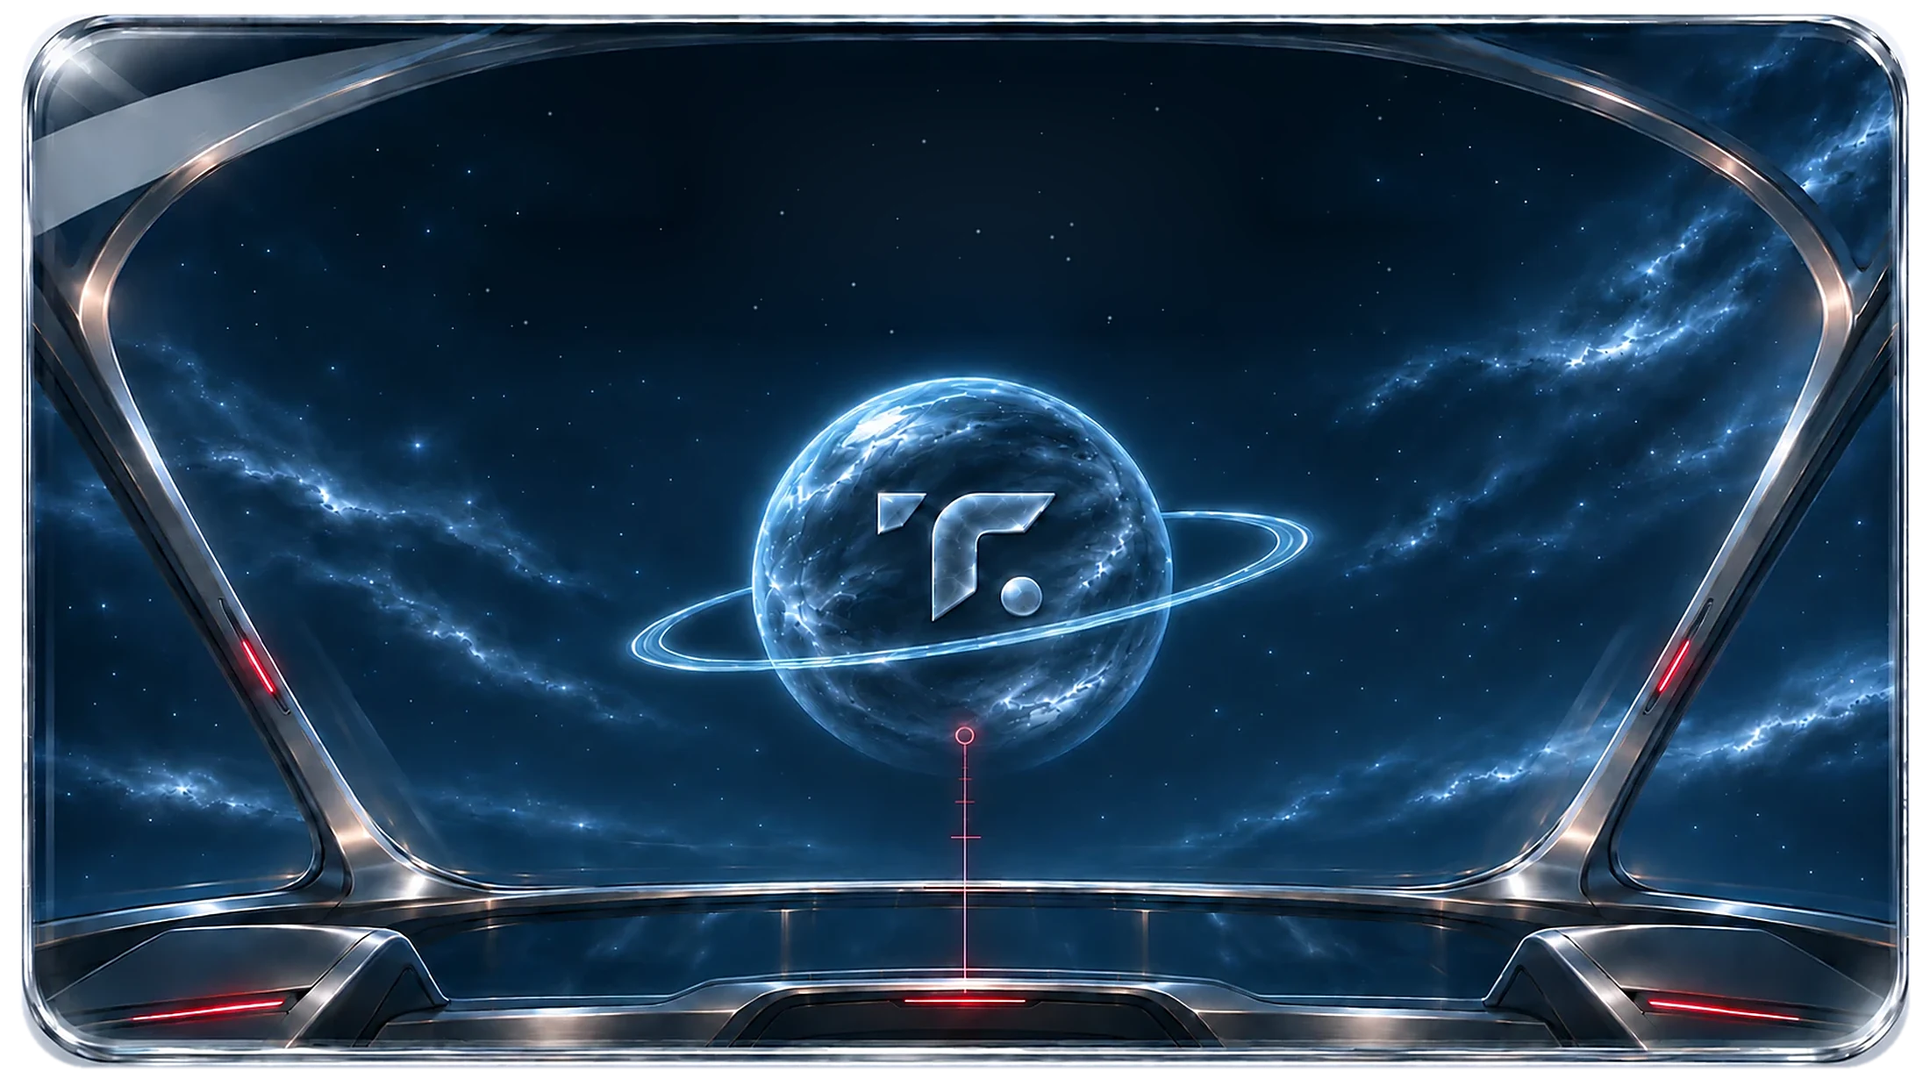
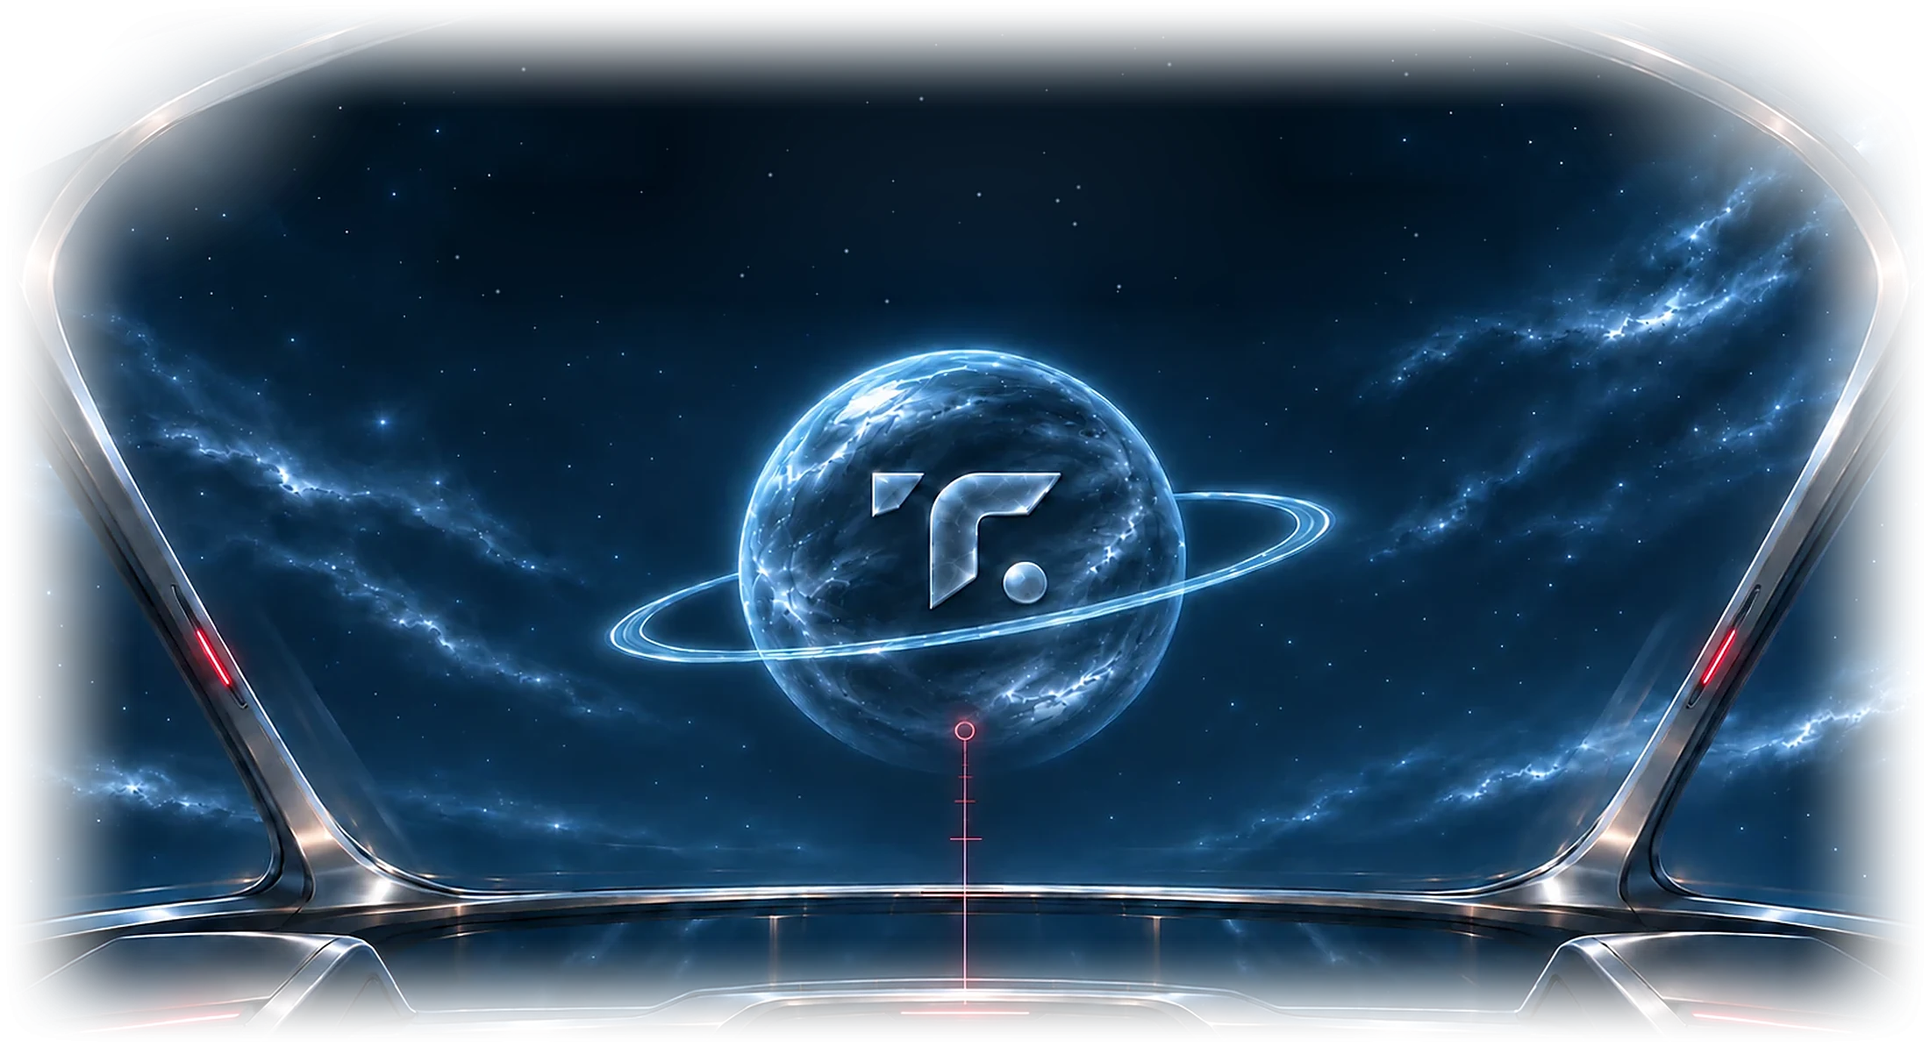
for-influencers next star: no glass frame, the cockpit's view fading into the night band
Claude-Session: https://claude.ai/code/session_01JhZ5DB5vxLeXKkYquUUDqb

diff --git a/site/for-influencers/index.html b/site/for-influencers/index.html
@@ -917,14 +917,14 @@ html.tq-mnav-on .tq-lfab { opacity: 0; pointer-events: none; transform: scale(.8
   background: radial-gradient(ellipse 48% 50% at 50% 50%, rgba(56, 104, 190, .28) 0%, rgba(56, 104, 190, .1) 48%, rgba(56, 104, 190, 0) 100%); }
 .inf-star__in { position: relative; max-width: 1280px; margin: 0 auto; padding: 0 clamp(16px, 5vw, 72px); box-sizing: border-box; }
 .inf-star__win { position: relative; width: min(100%, 1100px); margin: 0 auto; container-type: inline-size; }
-.inf-star__img { display: block; width: 100%; height: auto; filter: drop-shadow(0 2.4cqw 4cqw rgba(0, 0, 0, .45)); }
+.inf-star__img { display: block; width: 100%; height: auto; }
 .inf-star__h2 { position: absolute; left: 0; right: 0; top: 0; margin: 0; text-align: center; }
 .inf-star__h2 > span { position: absolute; left: 0; right: 0; display: block; margin: 0; padding: 0; white-space: nowrap; text-wrap: nowrap; line-height: 1; }
-.inf-star__kick { top: 4.24cqw; font-size: 2cqw; letter-spacing: .06em; color: #ee1d2b; text-shadow: 0 0 .9cqw rgba(238, 29, 43, .35); }
-.inf-star__big { top: 7.58cqw; font-size: 4.57cqw; letter-spacing: .02em;
+.inf-star__kick { top: 1.838cqw; font-size: 2.127cqw; letter-spacing: .06em; color: #ee1d2b; text-shadow: 0 0 .9cqw rgba(238, 29, 43, .35); }
+.inf-star__big { top: 5.39cqw; font-size: 4.861cqw; letter-spacing: .02em;
   background: linear-gradient(180deg, #ffffff 0%, #eef0f4 30%, #c3c8d0 48%, #8f959f 54%, #c9cdd4 70%, #f4f5f7 100%); -webkit-background-clip: text; background-clip: text; color: transparent;
   filter: drop-shadow(0 .3cqw .25cqw rgba(0, 0, 0, .75)) drop-shadow(0 0 1.2cqw rgba(0, 0, 0, .35)); }
-.inf-star__big--2 { top: 12.19cqw; }
+.inf-star__big--2 { top: 10.294cqw; }
 footer { border-top-color: transparent !important; }
 @media (max-width: 640px) {
 .inf-star { padding: 120px 0 140px; }
@@ -1793,7 +1793,7 @@ footer { border-top-color: transparent !important; }
       <canvas class="inf-star__sky" data-star-sky aria-hidden="true"></canvas>
       <div class="inf-star__in">
         <div class="inf-star__win">
-          <img class="inf-star__img" src="../assets/influencers/star-window-1400.webp?v=4272ac28b9" srcset="../assets/influencers/star-window-900.webp?v=0b469f2673 900w, ../assets/influencers/star-window-1400.webp?v=4272ac28b9 1400w, ../assets/influencers/star-window-2200.webp?v=8f0d501cca 2200w" sizes="(max-width: 1220px) 100vw, 1100px" width="2200" height="1238" alt="" loading="lazy" decoding="async">
+          <img class="inf-star__img" src="../assets/influencers/star-window-1400.webp?v=536939ac2b" srcset="../assets/influencers/star-window-900.webp?v=d5a98880c4 900w, ../assets/influencers/star-window-1400.webp?v=536939ac2b 1400w, ../assets/influencers/star-window-2200.webp?v=b438780072 2200w" sizes="(max-width: 1220px) 100vw, 1100px" width="2200" height="1194" alt="" loading="lazy" decoding="async">
           <h2 class="inf-star__h2"><span class="inf-star__kick tq-h2">Want to be our next star?</span><span class="inf-star__big tq-h2">Invited.</span><span class="inf-star__big inf-star__big--2 tq-h2">See you soon.</span></h2>
         </div>
       </div>

diff --git a/site/assets/css/influencers.css b/site/assets/css/influencers.css
@@ -69,7 +69,7 @@
 /* ---- Next star (owner's design, November 2026: a spaceship's window on the TradeQuo planet), the last block --------
    A band of night sky: out of the page's light colour above, into the footer's white below (long eased gradients),
    stars on a canvas (orbit.js) fading in and out with it; in the middle the window (tools/influencers/star_window.py:
-   the window alone, its surroundings transparent, its words wiped) and over it its words as real text, placed where
+   the cockpit's view without the glass frame, its edges fading into the night, its words wiped) and over it its words as real text, placed where
    the design has them (in % of the window's width: cqw): "WANT TO BE OUR NEXT STAR?" red, "INVITED. / SEE YOU SOON."
    in brushed silver with a dark drop shadow, all in the headings' face. */
 .inf-star { --night: #0b1424; position: relative; overflow: hidden; padding: clamp(150px, 17vw, 280px) 0 clamp(170px, 19vw, 300px); font-family: 'Inter', sans-serif;
@@ -81,14 +81,14 @@
   background: radial-gradient(ellipse 48% 50% at 50% 50%, rgba(56, 104, 190, .28) 0%, rgba(56, 104, 190, .1) 48%, rgba(56, 104, 190, 0) 100%); }
 .inf-star__in { position: relative; max-width: 1280px; margin: 0 auto; padding: 0 clamp(16px, 5vw, 72px); box-sizing: border-box; }
 .inf-star__win { position: relative; width: min(100%, 1100px); margin: 0 auto; container-type: inline-size; }
-.inf-star__img { display: block; width: 100%; height: auto; filter: drop-shadow(0 2.4cqw 4cqw rgba(0, 0, 0, .45)); }
+.inf-star__img { display: block; width: 100%; height: auto; }   /* no frame: its edges fade into the night (star_window.py) */
 .inf-star__h2 { position: absolute; left: 0; right: 0; top: 0; margin: 0; text-align: center; }
 .inf-star__h2 > span { position: absolute; left: 0; right: 0; display: block; margin: 0; padding: 0; white-space: nowrap; text-wrap: nowrap; line-height: 1; }
-.inf-star__kick { top: 4.24cqw; font-size: 2cqw; letter-spacing: .06em; color: #ee1d2b; text-shadow: 0 0 .9cqw rgba(238, 29, 43, .35); }
-.inf-star__big { top: 7.58cqw; font-size: 4.57cqw; letter-spacing: .02em;
+.inf-star__kick { top: 1.838cqw; font-size: 2.127cqw; letter-spacing: .06em; color: #ee1d2b; text-shadow: 0 0 .9cqw rgba(238, 29, 43, .35); }
+.inf-star__big { top: 5.39cqw; font-size: 4.861cqw; letter-spacing: .02em;
   background: linear-gradient(180deg, #ffffff 0%, #eef0f4 30%, #c3c8d0 48%, #8f959f 54%, #c9cdd4 70%, #f4f5f7 100%); -webkit-background-clip: text; background-clip: text; color: transparent;
   filter: drop-shadow(0 .3cqw .25cqw rgba(0, 0, 0, .75)) drop-shadow(0 0 1.2cqw rgba(0, 0, 0, .35)); }
-.inf-star__big--2 { top: 12.19cqw; }
+.inf-star__big--2 { top: 10.294cqw; }
 /* the page ends in the footer's white with no line between (the footer's own top line, drawn inline, hidden here) */
 footer { border-top-color: transparent !important; }
 @media (max-width: 640px) {

diff --git a/tools/i18n/influencers.html b/tools/i18n/influencers.html
@@ -368,7 +368,7 @@
       <canvas class="inf-star__sky" data-star-sky aria-hidden="true"></canvas>
       <div class="inf-star__in">
         <div class="inf-star__win">
-          <img class="inf-star__img" src="{{root}}assets/influencers/star-window-1400.webp" srcset="{{root}}assets/influencers/star-window-900.webp 900w, {{root}}assets/influencers/star-window-1400.webp 1400w, {{root}}assets/influencers/star-window-2200.webp 2200w" sizes="(max-width: 1220px) 100vw, 1100px" width="2200" height="1238" alt="" loading="lazy" decoding="async">
+          <img class="inf-star__img" src="{{root}}assets/influencers/star-window-1400.webp" srcset="{{root}}assets/influencers/star-window-900.webp 900w, {{root}}assets/influencers/star-window-1400.webp 1400w, {{root}}assets/influencers/star-window-2200.webp 2200w" sizes="(max-width: 1220px) 100vw, 1100px" width="2200" height="1194" alt="" loading="lazy" decoding="async">
           <h2 class="inf-star__h2"><span class="inf-star__kick tq-h2">{{inf.star.h2a}}</span><span class="inf-star__big tq-h2">{{inf.star.big1}}</span><span class="inf-star__big inf-star__big--2 tq-h2">{{inf.star.big2}}</span></h2>
         </div>
       </div>

diff --git a/tools/influencers/star_window.py b/tools/influencers/star_window.py
@@ -50,11 +50,26 @@ for k in rng.choice(len(ys), 46, replace=False):
             f = max(0, 1 - (dy * dy + dx * dx) ** .5 / (r + .4))
             a[y + dy, x + dx] = np.minimum(255, a[y + dy, x + dx] + b * f * np.array([.85, .92, 1]))
 
-# the frame: a rounded rectangle (its outer edge, found on the picture); all outside it transparent
-inside = Image.new('L', (W, H), 0)
-ImageDraw.Draw(inside).rounded_rectangle((19, 12, W - 19, H - 17), radius=58, fill=255)
-alpha = np.asarray(inside.filter(ImageFilter.GaussianBlur(1.0))).astype(float)
+# no glass frame (owner's wish: the view alone, at one with the night band round it): cropped inside the frame's rim,
+# its edges faded out (a soft rounded vignette in alpha), so the cockpit's view dissolves into the page's night
+CX0, CY0, CX1, CY1 = 50, 42, W - 50, H - 46
+a = a[CY0:CY1, CX0:CX1]
+H2, W2 = a.shape[:2]
+yy, xx = np.mgrid[0:H2, 0:W2].astype(float)
+FX, FY = W2 * .075, H2 * .11
+dx = np.clip(np.minimum(xx, W2 - 1 - xx) / FX, 0, 1)
+dy = np.clip(np.minimum(yy, H2 - 1 - yy) / FY, 0, 1)
+ease = lambda t: t * t * (3 - 2 * t)
+alpha = ease(dx) * ease(dy)
+# the frame's glass glare (a light band across the top left corner) and, for balance, the top right corner: both top
+# corners fade further, round each corner
+for cx in (0, W2 - 1):
+    r = np.hypot(xx - cx, yy * 1.25) / 330
+    alpha *= ease(np.clip((r - .25) / .75, 0, 1))
+alpha *= 255
+print('crop', (CX0, CY0, CX1, CY1), 'size', W2, H2)
 out = Image.fromarray(np.dstack([np.clip(a, 0, 255), alpha]).astype(np.uint8), 'RGBA')
+H, W = H2, W2
 for w in (2200, 1400, 900):
     p = out.resize((w, round(H * w / W)), Image.LANCZOS)
     if w > W:

diff --git a/README.md b/README.md
@@ -288,7 +288,7 @@ HTTPS (Let's Encrypt) Netlify включит сам.
 
 Важно: репозиторий на GitHub публичный, поэтому исходник страницы (`tools/i18n/influencers.html` и собранный `site/for-influencers/index.html`) может прочитать любой, кто найдёт репозиторий. Закрыт только адрес на сайте. Чтобы закрыть и код, репозиторий делают приватным (GitHub → Settings → General → Danger Zone → Change visibility); Netlify продолжает публиковать сайт.
 
-**Блок «Next star»** (дизайн владельца, ноябрь 2026, `tools/influencers/star-src/star-window-design.webp`; заменил чёрную карточку с красной дорожкой) — последний блок страницы, прямо над футером, `#star`. Полоса ночного неба: сверху она плавно выходит из светлого фона страницы, снизу плавно уходит в белый футер (длинные градиенты, линия над футером на этой странице скрыта); на небе звёзды (`orbit.js` рисует их один раз на `<canvas>`, они тоже растворяются к краям полосы), вокруг иллюминатора мягкий синий свет. Посередине иллюминатор с планетой TradeQuo. **Надписи — настоящий текст** (по просьбе владельца, ради чёткости): «WANT TO BE OUR NEXT STAR?» красным и «INVITED. / SEE YOU SOON.» под серебро с тенью, шрифтом заголовков сайта, ровно там, где они в макете (размеры в % ширины иллюминатора, `cqw`); тексты — `inf.star.h2a`, `inf.star.big1`, `inf.star.big2`. Из картинки надписи стёрты (небо на их месте восстановлено, добавлены редкие звёзды), картинка увеличена до 2200px с лёгкой резкостью, вокруг рамки прозрачная: `python3 tools/influencers/star_window.py` → `star-window-{2200,1400,900}.webp`. Зума и закрепления нет (по просьбе владельца). Ширина — до 1100px; на телефоне почти во всю ширину. Стили — `.inf-star*` в `influencers.css`.
+**Блок «Next star»** (дизайн владельца, ноябрь 2026, `tools/influencers/star-src/star-window-design.webp`; заменил чёрную карточку с красной дорожкой) — последний блок страницы, прямо над футером, `#star`. Полоса ночного неба: сверху она плавно выходит из светлого фона страницы, снизу плавно уходит в белый футер (длинные градиенты, линия над футером на этой странице скрыта); на небе звёзды (`orbit.js` рисует их один раз на `<canvas>`, они тоже растворяются к краям полосы), вокруг иллюминатора мягкий синий свет. Посередине вид из кабины на планету TradeQuo — **без стеклянной рамки** (по просьбе владельца): картинка обрезана внутри рамки, её края и оба верхних угла (там был блик на стекле рамки) плавно растворяются в ночном небе полосы. **Надписи — настоящий текст** (по просьбе владельца, ради чёткости): «WANT TO BE OUR NEXT STAR?» красным и «INVITED. / SEE YOU SOON.» под серебро с тенью, шрифтом заголовков сайта, ровно там, где они в макете (размеры в % ширины иллюминатора, `cqw`); тексты — `inf.star.h2a`, `inf.star.big1`, `inf.star.big2`. Из картинки надписи стёрты (небо на их месте восстановлено, добавлены редкие звёзды), картинка увеличена до 2200px с лёгкой резкостью, края прозрачные: `python3 tools/influencers/star_window.py` → `star-window-{2200,1400,900}.webp`. Зума и закрепления нет (по просьбе владельца). Ширина — до 1100px; на телефоне почти во всю ширину. Стили — `.inf-star*` в `influencers.css`.
 
 **Блок «Three numbers»** (с 25 ноября 2026 — светлый стеклянный вариант по макету владельца, `tools/influencers/numbers-src/glass-design.webp`; прежний титановый с цифрами-туманностями заменён, он есть в истории git) — `#numbers`, после «Next star». Светлая карточка (#f9f8fd, мягкая тень), «THREE NUMBERS. / ZERO FINE PRINT.» и три стеклянные строки-пилюли: 87% — Revenue share, ∞ — Sub-partners, 365 — Paydays a year. **Стекло — из самого макета:** `python3 tools/influencers/nums_glass.py` вырезает левый край второй строки макета, зеркалит его вправо и продолжает середину его последним столбцом (без швов) → `nums-row.webp`, которая кладётся как 9-slice `border-image`, а её ободок масштабируется с высотой строки (`--rh`). Цифры — живой текст шрифтом заголовков, залитый красным шлифованным металлом (`nums-red.webp`, рисует тот же скрипт), с тёмно-красным торцом и бликом; ∞ — лемниската из SVG-маски (`nums-loop-*.svg`). **Раскрытие:** изначально все строки одинаковые, видно только номер и название; при наведении мыши (или фокусе с клавиатуры) строка плавно растёт (`--rh` — зарегистрированная длина, анимируется), цифра вместе с ней, и выплывает пояснение (of everything your audience brings in / build a team with no ceiling / paid out every single day). На телефонах наведения нет — строка раскрывается по нажатию, закрывается повторным нажатием на неё или нажатием в любом другом месте страницы (открыта одна; `orbit.js`), цифра там не растёт (узкая колонка), растёт только строка под пояснение. `aria-expanded` следует за состоянием. **Без своей карточки** (по просьбе владельца): строки стоят прямо на фоне страницы, рамка `nums-row.webp` — только стекло: вне капсулы полностью прозрачная, внутри каждый пиксель переведён в белый/чёрный с прозрачностью относительно фона страницы (лицо капсулы — прозрачное стекло, ободок и блики остаются), никаких светлых прямоугольников вокруг. **Подсветка выбранной строки:** насыщенное красное свечение на её левом и правом краю (`.inf-nums__row::after`), плавно появляется на строке под мышью / открытой нажатием и гаснет на прежней. Тексты — `inf.nums.*`, стили — `.inf-nums*` в `influencers.css`.
 
